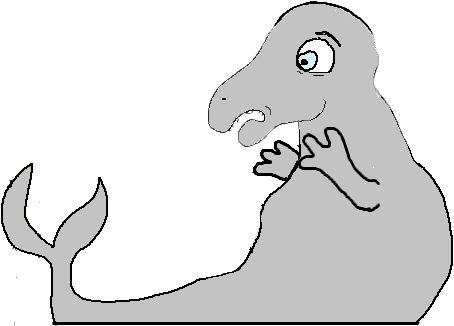
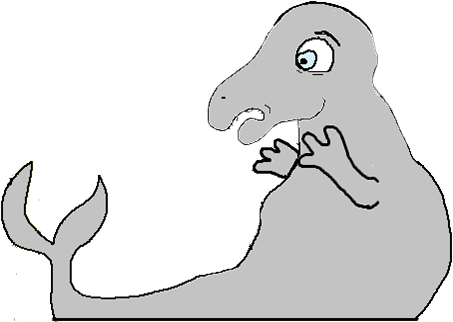
spill #3 - Fixed the Seal position almost correctly
- Fixed the seal position when it's sad, so it won't bump down on the window. 
- TODO: fix seal happy always position same place

diff --git a/assets/css/spill-3.css b/assets/css/spill-3.css
@@ -21,7 +21,7 @@ h4 {
 .seal-bubble-speech {
   width: 20rem;
   height: 10rem;
-  bottom: 13%;
+  bottom: 18%;
   left: 60%;
   position: relative;
   background: #888888;
@@ -64,20 +64,11 @@ h4 {
   width: 31rem;
   height: auto;
   right: 1.8%;
-  top: 56.5%;
+  top: 55%;
   left: 40%;
 }
 
 .seal-open-close {
-  position: relative;
-  width: 31rem;
-  height: auto;
-  right: 1.8%;
-  top: 39%;
-  left: -5%;
-}
-
-.seal-sad {
   position: relative;
   width: 31rem;
   height: auto;
@@ -106,5 +97,5 @@ h4 {
   position: absolute;
   margin-top: 20px;
   margin-left: 10px;
-  top: 60%;
+  top: 55%;
 }

diff --git a/spill3.html b/spill3.html
@@ -72,11 +72,10 @@
             <div class="seal-open-close">
               <img class="seal-close" />
               <img class="seal-open" />
-            </div>
-            <div class="seal-happy-sad ">
               <img class="seal-sad" />
               <img class="seal-happy" />
             </div>
+            <div class="seal-happy-sad "></div>
           </section>
           <div
             class="seal-bubble-speech text-center"

diff --git a/assets/js/spill-3/main.js b/assets/js/spill-3/main.js
@@ -126,7 +126,6 @@ document.addEventListener('DOMContentLoaded', e => {
 
       const images = document.querySelector('.images');
       const hiddenWall = document.querySelector('.hidden-wall');
-      const sealHappySad = document.querySelector('.seal-happy-sad');
 
       const sealHappy = document.querySelector('.seal-happy');
       const sealSad = document.querySelector('.seal-sad');
